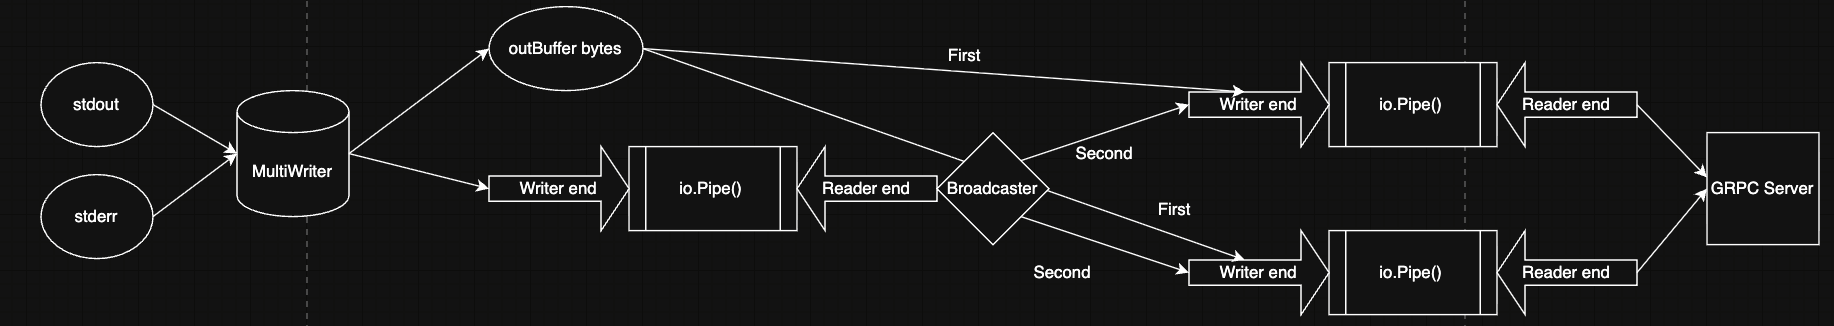
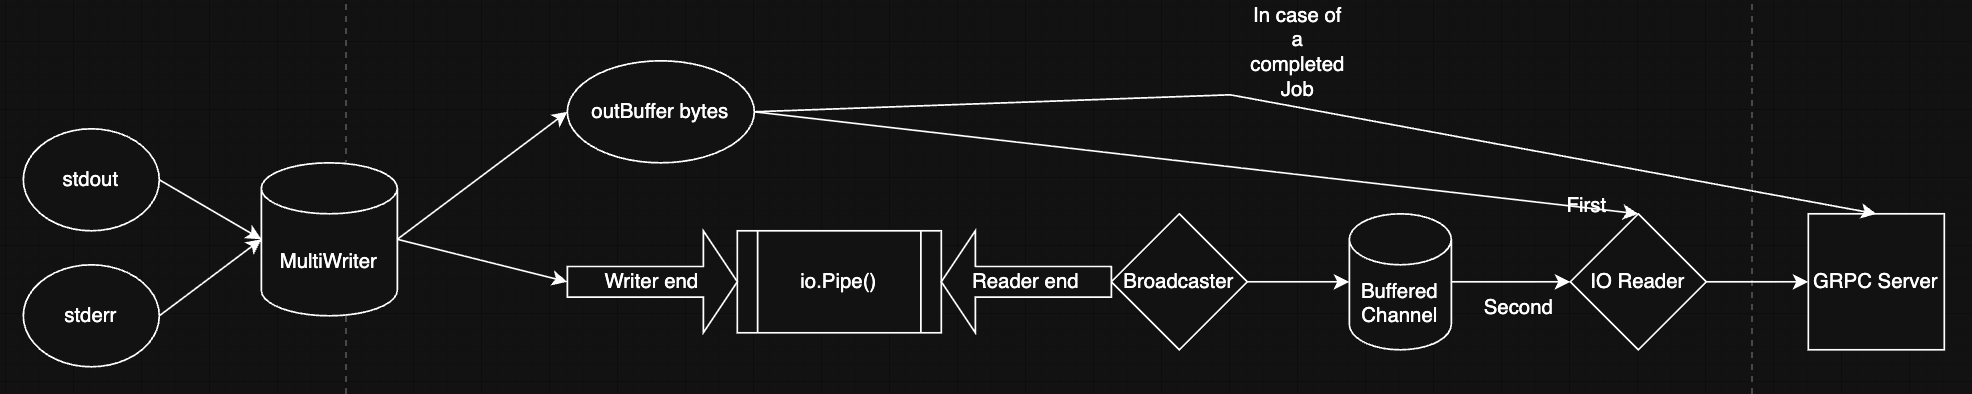
Update RFD addressing the review comments

diff --git a/rfds/01-linux-process-as-a-service.md b/rfds/01-linux-process-as-a-service.md
@@ -33,18 +33,109 @@ To support streaming, both stdout and stderr are written to two destinations usi
 2. the writer end of an `io.Pipe`, which enables live streaming to consumers.
 
 ###### Streaming a Job
-For each client, a new `io.Pipe` is created (reader + writer).
 
-1. If the job has already exited, the buffer (outbuf) contents are written to the writer once, and the API server streams them via the reader end of the `io.Pipe`
+1. I will maintain a list of clients for streaming. Each client will have a buffered channel. 
 
-2. If the job is still running, the client's `io.Pipe` `writer` is added to a list of active `consumers`. A broadcaster goroutine continuously writes new process output to all consumer's `io.Pipe` writers, ensuring that each client receives output from start to finish.
+2. When the job starts, I will start a goroutine (broadcaster) to read from the main `io.Pipe` (where stdout and stderr are written) and write the data into the buffered channels of each client in non blocking way. If the channel gets full due to a slow reader, only that reader is effected.
 
-3. When the job finishes (cmd.Wait() returns), all subscriber pipes and the main output pipe are closed, producing an EOF on the readers. The gRPC server reads until this EOF. 
+3. If the job has already exited, I wouldn't use the channel instead, a reader over the buffer (outbuf) contents is passed on to the API server to stream them.
+
+4. If the job is still running, I add the client to the list and so the broadcaster goroutine reads from the main process pipe and distributes each chunk to all active consumer's channels. This ensures that every connected client receives real-time output from the process as it is produced. Before sending the live output stream, I ensure I send the snapshot of `outbuf` and then stream though a struct which implement io.Reader().
+
+6. When the job finishes (cmd.Wait() returns), all consumer channels and the main process pipe are closed. This cleanly signals an EOF to the gRPC server, which stops streaming once all output has been delivered.
+
+7. In the case of streaming, the API server will deal with the Job directly after getting the Job instance from the Job manager.
 
 I have used `io.Pipe` since it is Go’s built-in in-memory stream that directly connects a writer and reader without using files or sockets. It satisfies the challenge requirement because it’s fully event-driven. 
 
 
 ![Streaming Logs](images/stream.png)
+
+
+###### Streaming internals (Golang)
+
+The following pseudocode illustrates how process output flows through the in-memory pipeline and is broadcasted to multiple concurrent consumers using Go channels and pipes. Please note that the pseudocode snippets is not real Golang code,is trimmed and is only added for the purpose of understanding.
+
+1. Before the job starts, I create a main pipe and `outbuf` and write process outputs into them.
+
+<pre>
+pr, pw := io.Pipe()
+j.mainReader, j.mainWriter = pr, pw
+
+// write process output to: 1) in-memory buffer, 2) master pipe
+mw := io.MultiWriter(j.outBuf, pw)
+cmd.Stdout = mw
+cmd.Stderr = mw
+</pre>
+
+2. Before the job starts, I also start a broadcaster to send output logs to all active consumer's buffered channels in a non blocking way.
+
+<pre>
+for {
+  chunk := j.mainReader.Read(buf)
+  for _, s := range j.consumers {
+    select {
+      case s.ch <- chunk:
+      default:
+        // slow reader: drop for this consumer, don't block others
+    }
+  }
+}
+</pre>
+
+3. Then the job starts and everything goes on. Later, when some client/consumer wants to request streaming, they are added to the list of consumers and a struct which implements io.Reader is created for them and reader is sent to the GRPC server.
+
+<pre>
+snapshot := bytes.NewReader(j.outBuf.Bytes()) // capture log till now
+j.consumers = append(j.consumers, consumer) // add to the consumers list
+
+// reader that will: 1) read snapshot, 2) read from channel
+r := &streamingReader{
+	snapshot: snapshot,
+	consumer: consumer,
+}
+
+return r
+}
+</pre>
+
+4. Before we go through how GRPC server reads it, lets understand the read function of the streamingReader
+
+<pre>
+func Read(p []byte) (int, error) {
+  // Send the snapshot of outbuf first
+  n, err := r.snapshot.Read(p)
+  if err == io.EOF {
+    r.snapshot = nil // move to live streaming
+  }
+  if n > 0 {
+    return n, nil
+  }
+
+  // then steam live chunks
+  select {
+  case data, ok := <-r.consumer.ch:
+    n := copy(p, data)
+    return n, nil
+  case <-r.consumer.done:
+    return 0, io.EOF
+}
+</pre>
+
+5. Now, the GRPC server reads from the reader and sends the chunks to the client.
+
+<pre>
+  for {
+    n, err := reader.Read(buf)
+    if n > 0 {
+      stream.Send(buf[:n])
+    }
+    if err == io.EOF {
+      return nil
+    }
+  }
+</pre>
+
 
 ###### Stop Job
 
@@ -74,9 +165,9 @@ const (
 
 ##### Job Manager
 
-This will be a struct which will be responsible for all the operations that the API server would like to perform. This struct will be a bridge between the API server and job/cgroup structs. The following are the Jobmanager's responsibilities:
+This will be a struct which will be responsible for all the operations that the API server would like to perform. This struct will be a bridge between the API server and job/cgroup structs. I will be maintaining a jobManager per client. The following are the Jobmanager's responsibilities:
 
-1. It maintains two maps : one for the ownership and two for the list of jobs with its job ids. It will also have helper functions to set and retrieve the owner when will be used by the API server for authorization.
+1. It maintains one map : A map of job ids and its job structs.
 2. When the API server tells the Job manager to start a job, the job manager will take care of creating a unique job id using [uuid](https://github.com/google/uuid) package, creating the cgroup directory for the job and fetching file descriptor of it and invoking the job start function with the `fd`. This will probably be an asynchronous operation.
 3. Similary for stopping a job, the Job manager will call the stop function of job and make sure of deleting the cgroup directory for that job. This will be a synchronous function.
 4. It is also responsible for returning the Job struct based on ID whenever requested by the API server.
@@ -199,6 +290,9 @@ lpaas status job-97dd115d-887d-4b8b-b746-59246e8d0ebf
 
 #### gRPC API Server
 
+
+The gRPC API server is responsible to maintining the ownership of the jobmanager per client. It will maintain a map which contains the client and its Job manager. 
+
 ##### API
 
 This component will expose a gRPC API server that uses Protocol Buffers for both requests and responses. The API will be versioned with the initial version being v1alpha1.
@@ -223,11 +317,11 @@ service Lpaas {
 
   // Stops a running job by its ID.
   // Returns the status of the job.
-  rpc StopJob(JobRequest) returns (StopJobResponse);
+  rpc StopJob(StopJobRequest) returns (StopJobResponse);
 
   // Query the status of a job.
   // Returns current status and error details if any.
-  rpc GetStatus(JobRequest) returns (StatusJobResponse);
+  rpc GetStatus(StatusJobRequest) returns (StatusJobResponse);
 
   // Stream output from a running or completed job. 
   rpc StreamOutput(StreamRequest) returns (stream StreamChunk);
@@ -243,7 +337,12 @@ message StartJobResponse {
   string id = 1;
 }
 
-message JobRequest {
+message StopJobRequest {
+  // Job ID
+  string id = 1;
+}
+
+message StatusJobRequest {
   // Job ID
   string id = 1;
 }
@@ -278,6 +377,62 @@ message StreamChunk {
 message StopJobResponse {}
 </pre>
 
+### GO Library API
+
+#### JobManager
+
+A JobManager manages a set of Linux jobs for a single authenticated user. A job manager instance is created per client.
+
+<pre>
+type JobManager struct {
+    // Create track Linux jobs.
+    jobs map[string]*Job
+}
+
+func NewJobManager() *JobManager
+func (m *JobManager) StartJob(command string, args ...string) (string, error)
+func (m *JobManager) StopJob(id string) error
+func (m *JobManager) GetJob(id string) (*Job, error)
+func (m *JobManager) Status(id string) (JobStatus, int, error)
+</pre>
+
+#### Job
+
+A job is responsible for start a linux process and other related activities such as stop, status and streaming.
+
+<pre>
+type Job struct {
+    ID      string
+    Command string
+    Args    []string
+    outBuf *bytes.Buffer
+
+    mainReader *io.PipeReader
+    mainWriter *io.PipeWriter
+    consumers []*consumer // Has its own buffered channel
+}
+
+func (j *Job) Start(ctx context.Context, cgroupFD int) error
+func (j *Job) Stop() error
+func (j *Job) Stream() io.ReadCloser
+func (j *Job) StatusSnapshot() (JobStatus, int, error)
+</pre>
+
+#### Cgroup
+
+A cgroup instance is responsible for create a new cgroup and deleting it when required. 
+
+<pre>
+type CGroupV2 struct {
+    Path string // e.g. /sys/fs/cgroup/lpaas/<jobID>
+}
+
+func NewCGroupV2(jobID string) (*CGroupV2, error)
+func (cg *CGroupV2) SetLimits() error
+func (cg *CGroupV2) Delete() error
+</pre>
+
+Please note this is a rough structure and might change a little but essence remains same.
 
 
 ### Authentication
@@ -325,7 +480,7 @@ In order to maintain simplicity and achieve the goal of smallest possible scope 
 
 1. In the library part of the challenge, the information about the owner and its jobs is stored in-memory inside a map. In a production system, this would be replaced by a persistent RBAC (Role-Based Access Control) layer backed by a secure datastore with audit logging.
 
-2. If time permits, I will be adding logging to the entire codebase. I will be using [logrus](https://github.com/sirupsen/logrus).
+2. If time permits, I will be adding logging to the entire codebase. I will be using [log/slog](https://pkg.go.dev/log/slog).
 
 3. For the scope of this challenge, I am assuming the the underlying host has cgroups v2 and the root cgroup has CPU Memory and Disk IO controllers enabled. Hardcoded the limits for now. In a production system, these would be configurable via environment variables or API inputs.
 
